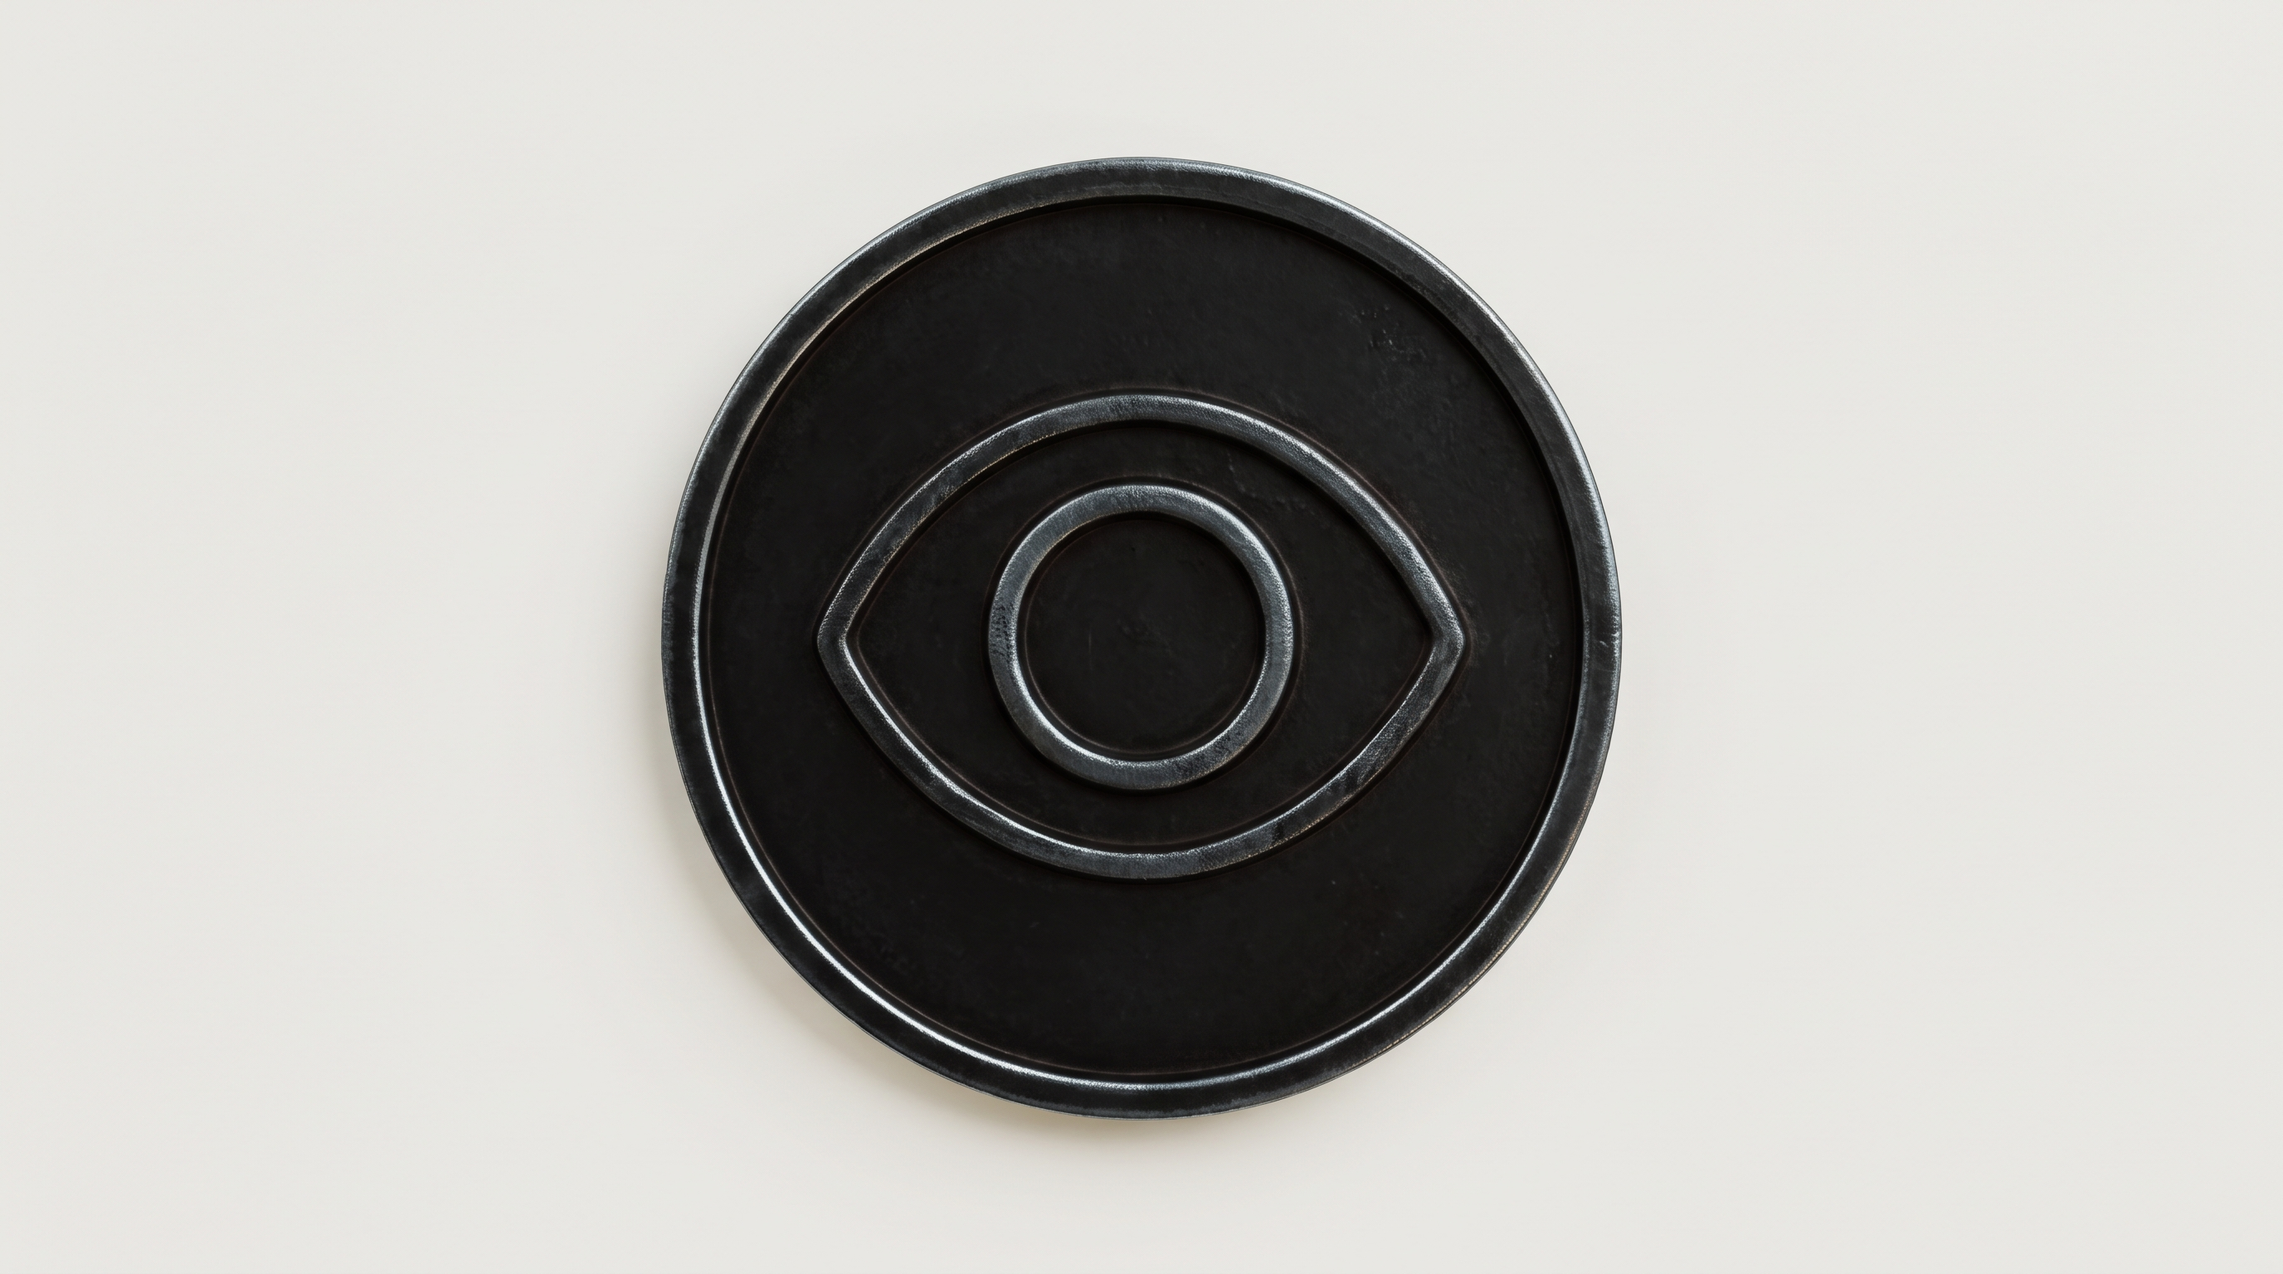
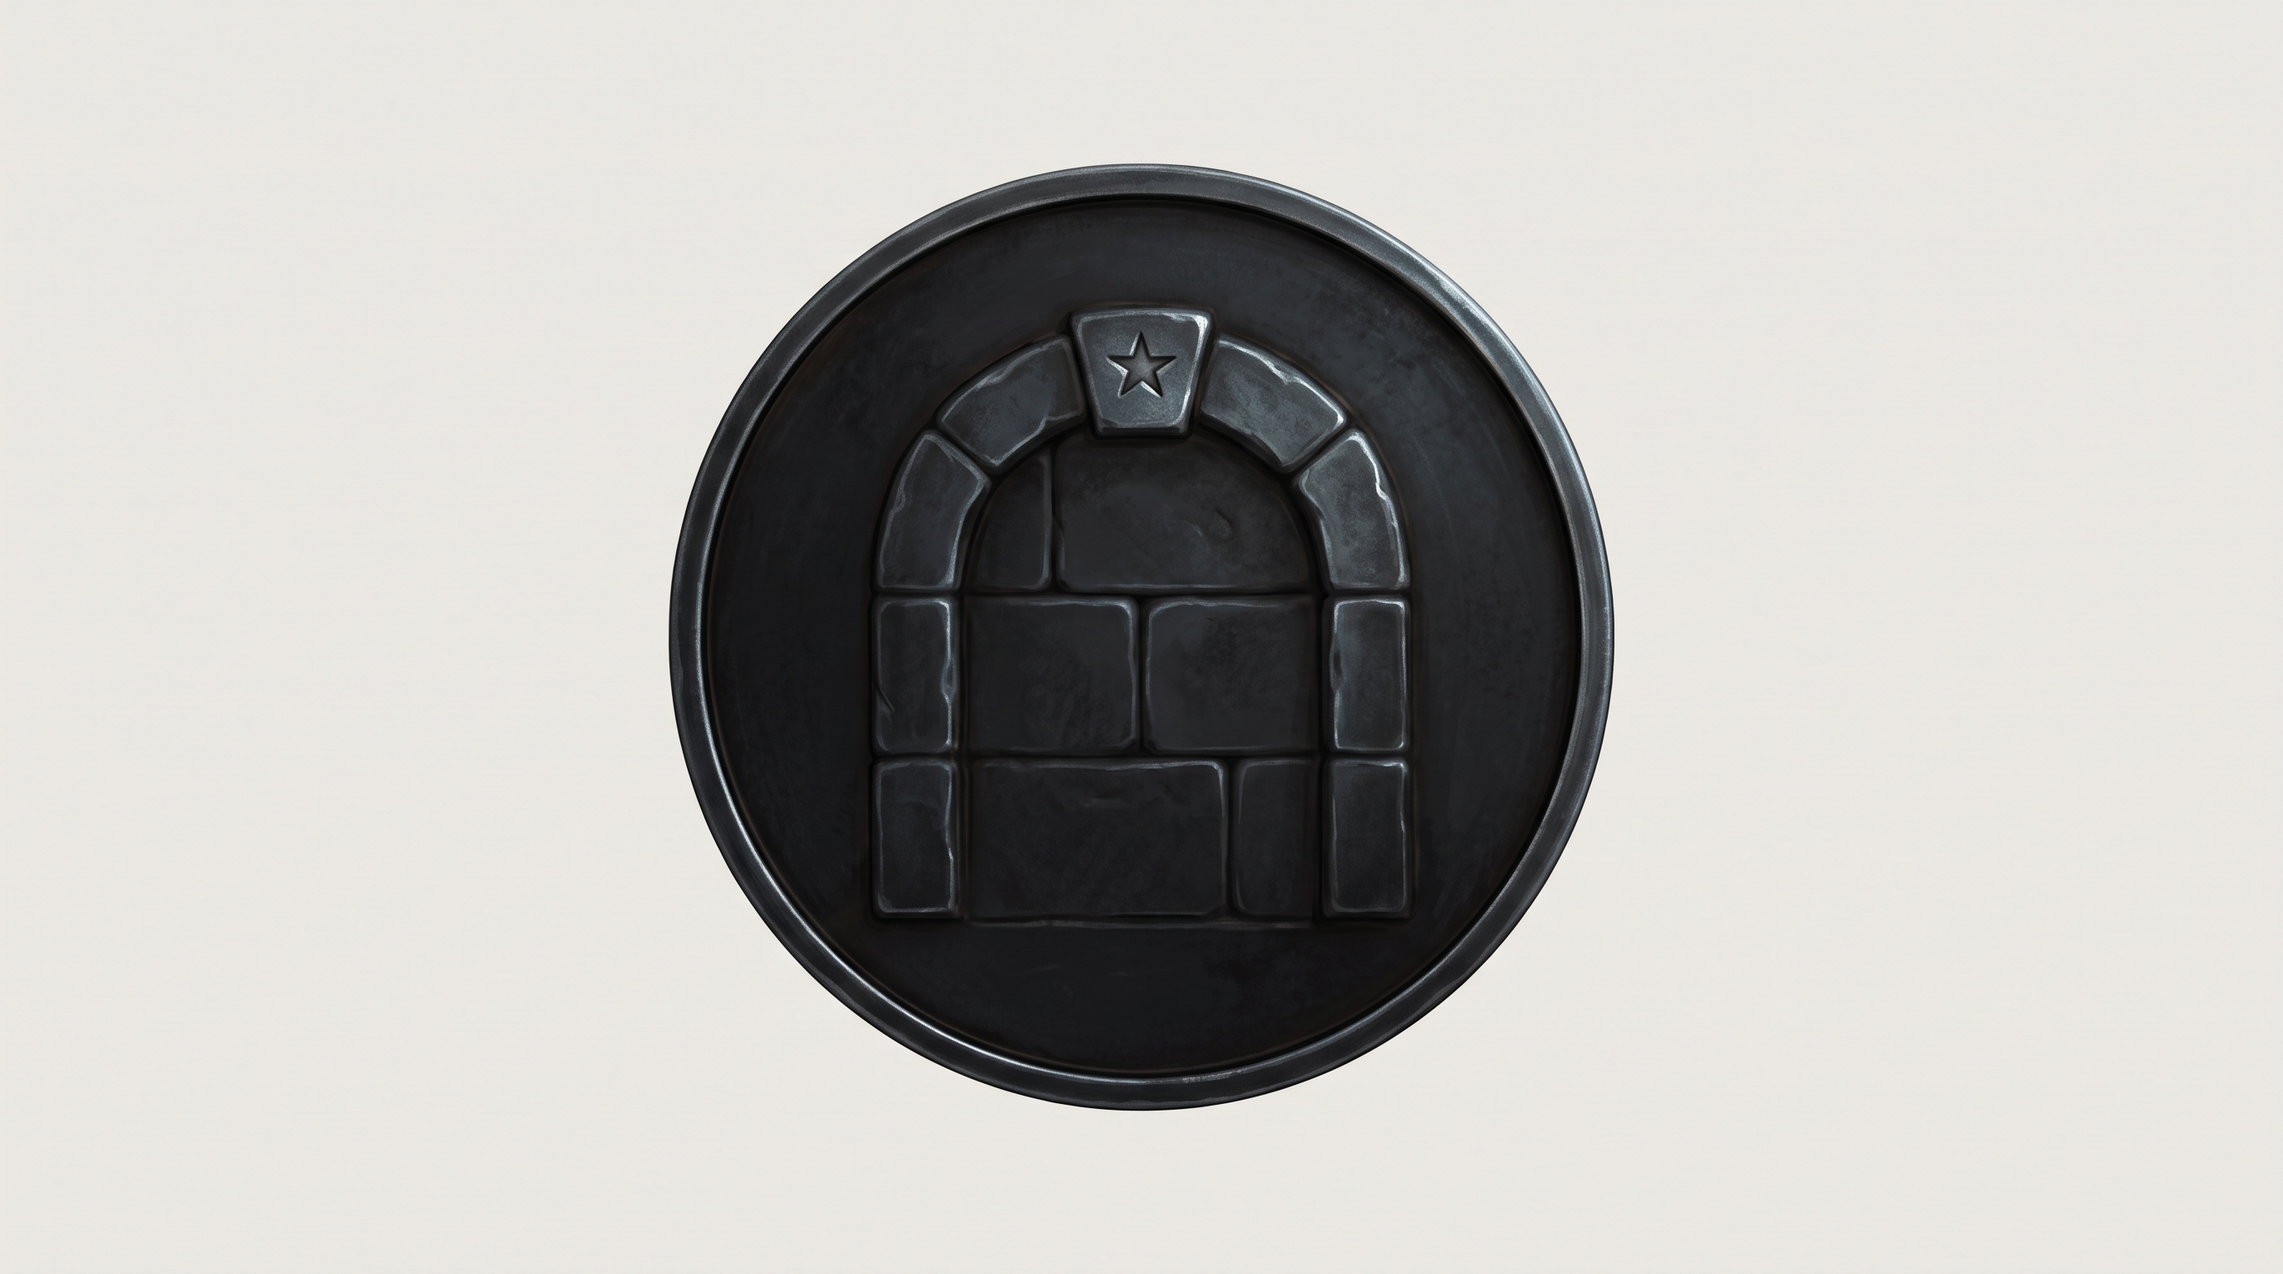
Retro Epico, nuova pedina Piano (arco murato), print and play Epico/spell/pedine e tabellone con il retro vero

Changed region(s): [[0.25, 0.125, 0.7188, 0.9062]]

diff --git a/cardgen/print-epico.js b/cardgen/print-epico.js
@@ -1,0 +1,130 @@
+// Print-and-play del mazzo Epico, delle due spell nuove e delle pedine Piano.
+//   Foglio 1 (epico_carte_fronte/retro.pdf): le 8 carte Epico, 3x3 (Poker 63,5x88mm), il retro e' unico.
+//   Foglio 2 (epico_spell_pedine_fronte/retro.pdf): Via murata e Sentiero battuto (ognuna col retro della sua scuola) +
+//   48 pedine Piano da 15mm (stessa immagine su entrambi i lati: il retro e' specchiato come le carte).
+// Fronte/retro si stampano sul lato lungo, a dimensione reale (100%). Righello di calibrazione di 40mm in fondo al foglio 2.
+//
+// Prima: node render-pedine.js piano   (produce cards_final/pedine/pedina_piano.png)
+// Uso:   node print-epico.js
+const fs = require('fs');
+const path = require('path');
+const { pathToFileURL } = require('url');
+const { chromium } = require('playwright');
+const { convertAll } = require('./png-to-jpg-cache.js');
+
+const CARDS_DIR = path.join(__dirname, '..', 'assets', 'cards');
+const RETRO_DIR = path.join(__dirname, '..', 'cards_final', 'retro');
+const JPG_CACHE_DIR = path.join(__dirname, '..', 'cards_final', 'print', '_jpgcache');
+const OUT_DIR = path.join(__dirname, '..', 'cards_final', 'print');
+const COIN_PNG = path.join(__dirname, '..', 'cards_final', 'pedine', 'pedina_piano.png');
+const PAGE_W = 210, PAGE_H = 297, MARGIN = 5;
+const CW = 63.5, CH = 88;
+const COIN = 15, COIN_GAP = 5;
+
+const EPICO = ['ep_custode', 'ep_altare', 'ep_mappastellare', 'ep_eco', 'ep_patto', 'ep_fenditura', 'ep_banchetto', 'ep_lascito']
+  .map(id => ({ id, back: 'retro_incontro_epico' }));
+const SPELLS = [
+  { id: 'sp_viamurata', back: 'retro_spell_divinazione' },
+  { id: 'sp_sentierobattuto', back: 'retro_spell_essenza' },
+];
+
+const COLS = Math.floor((PAGE_W - 2 * MARGIN) / CW);                // 3
+const ROWS = Math.floor((PAGE_H - 2 * MARGIN) / CH);                // 3
+const GX = (PAGE_W - COLS * CW) / 2, GY = (PAGE_H - ROWS * CH) / 2;
+
+const jpg = id => pathToFileURL(path.join(JPG_CACHE_DIR, id + '.jpg')).href;
+const mirrorX = (x, w) => PAGE_W - x - w;
+
+function cardCell(x, y, src) {
+  return `<div class="cell" style="left:${x}mm; top:${y}mm; width:${CW}mm; height:${CH}mm;"><img src="${src}">
+    <i class="crop tl"></i><i class="crop tr"></i><i class="crop bl"></i><i class="crop br"></i></div>`;
+}
+function coinCell(x, y) {
+  return `<div class="coin" style="left:${x}mm; top:${y}mm; width:${COIN}mm; height:${COIN}mm;"><img src="${pathToFileURL(COIN_PNG).href}"></div>`;
+}
+
+// Foglio 1: 8 carte Epico nei primi 8 posti della griglia 3x3
+function sheet1(mirror) {
+  const cells = EPICO.map((it, i) => {
+    const row = Math.floor(i / COLS), col = i % COLS;
+    const drawCol = mirror ? COLS - 1 - col : col;
+    return cardCell(GX + drawCol * CW, GY + row * CH, jpg(mirror ? it.back : it.id));
+  });
+  return cells.join('\n');
+}
+
+// Foglio 2: 2 spell + blocco di 12 pedine nei tre posti della prima fila, poi 4 file da 9 pedine (36): 48 in tutto
+const COIN_COUNT = 12 + 36;
+function sheet2(mirror) {
+  const out = [];
+  SPELLS.forEach((it, i) => {
+    const drawCol = mirror ? COLS - 1 - i : i;
+    out.push(cardCell(GX + drawCol * CW, GY, jpg(mirror ? it.back : it.id)));
+  });
+  // blocco 3x4 nel terzo posto (63,5x88): 3 colonne x 4 righe, passo 20mm, centrato nel posto
+  const blockW = 3 * COIN + 2 * COIN_GAP, blockH = 4 * COIN + 3 * COIN_GAP;
+  const slotCol = mirror ? 0 : COLS - 1;
+  const bx = GX + slotCol * CW + (CW - blockW) / 2, by = GY + (CH - blockH) / 2;
+  for (let r = 0; r < 4; r++) for (let c = 0; c < 3; c++) {
+    const x = bx + c * (COIN + COIN_GAP);
+    out.push(coinCell(mirror ? mirrorX(mirrorX(x, COIN), COIN) : x, by + r * (COIN + COIN_GAP)));
+  }
+  // 4 file da 9 sotto le carte
+  const rowW = 9 * COIN + 8 * COIN_GAP, x0 = (PAGE_W - rowW) / 2, y0 = GY + CH + 8;
+  for (let r = 0; r < 4; r++) for (let c = 0; c < 9; c++) {
+    const x = x0 + c * (COIN + COIN_GAP);
+    out.push(coinCell(mirror ? mirrorX(x, COIN) : x, y0 + r * (COIN + COIN_GAP)));
+  }
+  // righello 40mm
+  const rx = (PAGE_W - 40) / 2, ry = PAGE_H - 22;
+  out.push(`<div class="ruler" style="left:${rx}mm; top:${ry}mm;"><div class="bar"></div>${[0, 1, 2, 3, 4].map(m => `<i class="tick" style="left:${m * 10 - .15}mm;"></i>`).join('')}
+    <div class="lab">Pedine Piano 15mm (${COIN_COUNT}) + spell nuove — ${mirror ? 'retro' : 'fronte'} · righello: deve misurare 40mm, stampa al 100%</div></div>`);
+  return out.join('\n');
+}
+
+function html(body) {
+  return `<!doctype html><html><head><meta charset="utf-8"><style>
+    *{box-sizing:border-box;margin:0;padding:0;}
+    body{ background:#fff; }
+    .sheet{ position:relative; width:${PAGE_W}mm; height:${PAGE_H}mm; overflow:hidden; }
+    .cell{ position:absolute; } .cell img{ display:block; width:100%; height:100%; }
+    .coin{ position:absolute; border-radius:50%; box-shadow:0 0 0 .2mm #999; } .coin img{ display:block; width:100%; height:100%; border-radius:50%; }
+    .crop{ position:absolute; display:block; }
+    .crop.tl{ left:-3.5mm; top:0; width:3mm; height:.25mm; background:#999; } .crop.tl::after{ content:''; position:absolute; left:0; top:-3.5mm; width:.25mm; height:3mm; background:#999; }
+    .crop.tr{ right:-3.5mm; top:0; width:3mm; height:.25mm; background:#999; } .crop.tr::after{ content:''; position:absolute; right:0; top:-3.5mm; width:.25mm; height:3mm; background:#999; }
+    .crop.bl{ left:-3.5mm; bottom:0; width:3mm; height:.25mm; background:#999; } .crop.bl::after{ content:''; position:absolute; left:0; bottom:-3.5mm; width:.25mm; height:3mm; background:#999; }
+    .crop.br{ right:-3.5mm; bottom:0; width:3mm; height:.25mm; background:#999; } .crop.br::after{ content:''; position:absolute; right:0; bottom:-3.5mm; width:.25mm; height:3mm; background:#999; }
+    .ruler{ position:absolute; width:40mm; } .ruler .bar{ width:40mm; height:.3mm; background:#000; }
+    .ruler .tick{ position:absolute; top:-1mm; width:.3mm; height:2.3mm; background:#000; }
+    .ruler .lab{ margin-top:1.5mm; width:150mm; margin-left:-55mm; text-align:center; font-family:sans-serif; font-size:2.6mm; line-height:1.35; color:#333; }
+  </style></head><body><div class="sheet">${body}</div></body></html>`;
+}
+
+async function main() {
+  if (!fs.existsSync(COIN_PNG)) throw new Error('manca ' + COIN_PNG + ': esegui prima node render-pedine.js piano');
+  fs.mkdirSync(OUT_DIR, { recursive: true });
+  const pairs = []; const seen = new Set();
+  for (const it of [...EPICO, ...SPELLS]) {
+    if (!seen.has(it.id)) { seen.add(it.id); pairs.push({ id: it.id, srcDir: CARDS_DIR, outDir: JPG_CACHE_DIR }); }
+    if (!seen.has(it.back)) { seen.add(it.back); pairs.push({ id: it.back, srcDir: RETRO_DIR, outDir: JPG_CACHE_DIR }); }
+  }
+  await convertAll(pairs);
+  const browser = await chromium.launch({ executablePath: process.env.PW_CHROMIUM || '/opt/pw-browsers/chromium' });
+  const jobs = [
+    ['epico_carte_fronte', sheet1(false)], ['epico_carte_retro', sheet1(true)],
+    ['epico_spell_pedine_fronte', sheet2(false)], ['epico_spell_pedine_retro', sheet2(true)],
+  ];
+  for (const [name, body] of jobs) {
+    const tmp = path.join(__dirname, '_print-epico-' + name + '.html');
+    fs.writeFileSync(tmp, html(body));
+    const page = await browser.newPage();
+    await page.goto('file://' + tmp + '?t=' + Date.now());
+    await page.waitForTimeout(500);
+    await page.pdf({ path: path.join(OUT_DIR, name + '.pdf'), printBackground: true, width: PAGE_W + 'mm', height: PAGE_H + 'mm', margin: { top: 0, right: 0, bottom: 0, left: 0 } });
+    await page.close();
+    fs.unlinkSync(tmp);
+  }
+  await browser.close();
+  console.log('Fatto: epico_carte_fronte/retro.pdf (8 carte Epico) + epico_spell_pedine_fronte/retro.pdf (2 spell + ' + COIN_COUNT + ' pedine) in ' + OUT_DIR);
+}
+main().catch(e => { console.error(e); process.exit(1); });

diff --git a/cardgen/render-tabellone-a2.js b/cardgen/render-tabellone-a2.js
@@ -67,6 +67,7 @@ const DECKS = [
   { n: 'ETEREI', col: FAM.eterei.c, x: zx(3), y: ROW1, retro: ['retro_incontro_eterei'] },
   { n: 'ENTROPIA', col: FAM.entropia.c, x: zx(4), y: ROW1, retro: ['retro_incontro_entropia'] },
   { n: 'NON-MORTI', col: FAM.nonmorti.c, x: zx(3), y: ROW2, retro: ['retro_incontro_nonmorti'] },
+  { n: 'MAZZO EPICO', col: '#e7c988', x: zx(2), y: ROW2, retro: ['retro_incontro_epico'] },
   { n: 'DEMONIACO', col: FAM.demoniaco.c, x: zx(4), y: ROW2, retro: ['retro_incontro_demoni'] },
   // il Mazzo Piani da solo a sinistra, separato dai mazzi Incontro (Tarocco, centrato verticalmente nella fila)
   { n: 'MAZZO PIANI', col: '#c9a15a', x: 28, y: ROW2 + (P.h - T.h) / 2, w: T.w, h: T.h, retro: ['retro_piani'] },
@@ -79,8 +80,6 @@ const ACTIVE = [
   { n: 'PIANO CORRENTE', sub: 'Il piano in corso:<br>effetto subito.', col: '#c9a15a', x: 76, y: Y0 + 31, ...T },
   { n: 'INCONTRO ATTIVO', sub: 'La carta del turno.<br>Ogni 5 piani (come il livello):<br>mazzo Generico.<br>Famiglia completata o nuovo<br>giro: mazzo Epico (vince).', col: '#aeb4c0', x: 210, y: Y0 + 22, ...P },
 ];
-// Mazzo Epico (Poker): in alto, al centro sotto il Generico. Finche' non c'e' il retro e' una cornice con testo.
-const EPICO = { n: 'MAZZO EPICO', sub: "Famiglia completata<br>o nuovo giro della<br>scaletta: l'Incontro<br>del turno è Epico.", col: '#e7c988', x: zx(2), y: ROW2, ...P };
 // cluster: origine (x,y) = angolo in alto a sinistra dell'area, larghezza 76; punti relativi all'angolo
 const CW = 76, CY = Y0 + 110;
 const G3 = [12.5, 38, 63.5];
@@ -166,7 +165,7 @@ function ladderHtml() {
 function boardHtml() {
   const bgs = `<img class="bg" style="top:0; height:${BH}mm" src="${pathToFileURL(BG_UNICO).href}">`;
   const wrap = `<div style="position:absolute; left:0; top:0; width:${BW}mm; height:${BH}mm; transform-origin:${SEAM_X}mm ${SEAM_Y}mm; transform:scale(${BG_SCALE});">${bgs}</div>`;
-  return wrap + DECKS.map(deckHtml).join('') + [...ACTIVE, EPICO].map(activeHtml).join('') + starHtml() + ladderHtml();
+  return wrap + DECKS.map(deckHtml).join('') + ACTIVE.map(activeHtml).join('') + starHtml() + ladderHtml();
 }
 
 function sheetHtml(col, row, label) {
@@ -194,7 +193,7 @@ function docHtml(sheets) {
 function misure() {
   let ok = true;
   console.log('Zone-carta (mm sul tabellone montato 406x580):');
-  const zones = [...DECKS.map(d => ({ n: d.n, x: d.x, y: d.y, w: d.w, h: d.h })), ...[...ACTIVE, EPICO].map(a => ({ n: a.n, x: a.x, y: a.y, w: a.w, h: a.h }))];
+  const zones = [...DECKS.map(d => ({ n: d.n, x: d.x, y: d.y, w: d.w, h: d.h })), ...ACTIVE.map(a => ({ n: a.n, x: a.x, y: a.y, w: a.w, h: a.h }))];
   for (const z of zones) {
     const x1 = z.x + z.w, y1 = z.y + z.h;
     const crossY = z.y < SEAM_Y && y1 > SEAM_Y, crossX = z.x < 210 && x1 > 196;     // 196..210 = fascia di sovrapposizione

diff --git a/cardgen/render-pedine.js b/cardgen/render-pedine.js
@@ -57,13 +57,13 @@ const TOKENS = {
     backAccent: '#8b5fbf', // viola, coerente col vortice del fronte
     backFontSize: 110,
   },
-  // Pedina Piano (mappa stellare): una sola moneta, stessa icona (occhio) sui due lati, 15mm. Si mette sul nodo di un piano
+  // Pedina Piano (mappa stellare): una sola moneta, stessa icona (murata con la stella) sui due lati, 15mm. Si mette sul nodo di un piano
   // visitato o murato. Centro e diametro misurati sui pixel della moneta (nera su fondo chiaro).
   piano: {
     src: path.join(UI_DIR, 'pedina_piano.jpg'),
     srcW: 2752, srcH: 1536,
-    center: [1376, 769],
-    diameterPx: 1158,
+    center: [1375, 768],
+    diameterPx: 1141,
     diameterMm: 15,
     renderPx: 700,
   },
@@ -371,8 +371,8 @@ async function mainAbilita() {
   console.log(`Fatto: pedine_fronte_retro.pdf (2 pagine: ${MIX.abilita} abilità, ${MIX.risorsa} risorse, ${MIX.reroll} reroll, ${MIX.mod} segnalini, carta Scala) in ${PRINT_DIR}`);
 }
 
-// Pedine Piano: 40 monete da 15mm (36 piani + 4 di scorta), stessa immagine sui due lati: due pagine (fronte, retro specchiato).
-const PIANO_COUNT = 40;
+// Pedine Piano: 45 monete da 15mm (36 piani + 9 di scorta), stessa immagine sui due lati: due pagine (fronte, retro specchiato).
+const PIANO_COUNT = 45;
 async function mainPiano() {
   fs.mkdirSync(OUT_DIR, { recursive: true });
   fs.mkdirSync(PRINT_DIR, { recursive: true });

diff --git a/cardgen/render-retro.js b/cardgen/render-retro.js
@@ -29,6 +29,7 @@ const BACKS = [
   { id: 'retro_incontro_eterei', label: 'Eterei', accent: FAMILY_ACCENT.eterei, shape: 'portrait', labelPos: 'circle' },
   { id: 'retro_incontro_generico', label: 'Generico', accent: FAMILY_ACCENT.generico, shape: 'portrait', labelPos: 'circle' },
   { id: 'retro_incontro_nonmorti', label: 'Non-morti', accent: FAMILY_ACCENT.nonmorti, shape: 'portrait', labelPos: 'circle', fontSize: 34 },
+  { id: 'retro_incontro_epico', label: 'Epico', accent: FAMILY_ACCENT.epico, shape: 'portrait', labelPos: 'circle' },
 ];
 
 async function main() {

diff --git a/cardgen/CARTE_DA_RISTAMPARE.md b/cardgen/CARTE_DA_RISTAMPARE.md
@@ -18,7 +18,7 @@ sé stesso, vedi il bug del 24/09 sotto). Il risultato va poi copiato su `assets
 
 | Data | Carta | Tipo | Cosa è cambiato |
 |---|---|---|---|
-| 2026-10-15 | NUOVE: mazzo Epico (8 carte `ep_custode`, `ep_altare`, `ep_mappastellare`, `ep_eco`, `ep_patto`, `ep_fenditura`, `ep_banchetto`, `ep_lascito`) e 2 spell (`sp_viamurata` Divinazione, `sp_sentierobattuto` Essenza) | Nuove carte (mai stampate) | Illustrazioni dell'utente in `assets/cards_raw/`, composte in `assets/cards/`; nel gioco web sono già attive (mappa dei piani con pedine, famiglia completata/nuovo giro = Epico). Pedina Piano pronta (moneta da 15mm con l'occhio, stessa immagine sui due lati: `node render-pedine.js piano` -> `pedine_piano_fronte.pdf` / `pedine_piano_retro.pdf`, 40 pezzi). Manca ancora il retro del mazzo Epico (`retro_incontro_epico`). |
+| 2026-10-15 | NUOVE: mazzo Epico (8 carte `ep_custode`, `ep_altare`, `ep_mappastellare`, `ep_eco`, `ep_patto`, `ep_fenditura`, `ep_banchetto`, `ep_lascito`) e 2 spell (`sp_viamurata` Divinazione, `sp_sentierobattuto` Essenza) | Nuove carte (mai stampate) | Illustrazioni dell'utente in `assets/cards_raw/`, composte in `assets/cards/`; nel gioco web sono già attive (mappa dei piani con pedine, famiglia completata/nuovo giro = Epico). Retro del mazzo Epico fatto (`retro_incontro_epico`, arte utente in `assets/cards_raw/`, composto con `node render-retro.js`). Pedina Piano: moneta con l'arco murato e la stella (arte utente `assets/ui/pedina_piano.jpg`, la prima con l'occhio e' in `assets/ui/archivio/`), 15mm, stessa immagine sui due lati. Print and play: `node render-pedine.js piano` poi `node print-epico.js` -> `epico_carte_fronte/retro.pdf` (8 carte Epico) e `epico_spell_pedine_fronte/retro.pdf` (2 spell + 48 pedine). Tabellone rigenerato con il retro Epico vero. |
 | 2026-10-09 | Spettro (Incontro Non-morti, `nm_spettro`) | Testo | Era la carta sbagliata da correggere (non lo Spettro del Tempo): diceva "danno passante a Intelletto, non a Punti Vita". Ora, come tutti i passanti: "danno passante: oltre ai PV, anche -1 temporaneo a Intelletto"; nel gioco il danno passante va ai PV e il -1 temporaneo a Intelletto solo a chi lo subisce. Rigenerata da `assets/cards_raw/` con `render-incontri.js` (mazzo `nonmorti`), copiata su `assets/cards/nm_spettro.png`. Lo Spettro del Tempo (`en_spettro`) era già giusto e non va ristampato. |
 | 2026-10-10 | Tabellone da tavolo (2 x A4 uniti, 406mm) | Nuovo componente | Sfondo vuoto dell'utente `assets/ui/tabellone_vuoto.jpg` (2464x1728); slot disegnati da `render-tabellone.js` A MISURA REALE: 2 Tarocco 120x70mm (Mazzo Piani, Piano attuale) e 10 Poker 63,5x88mm (Generico, Armonia, Non-morti, Entropia, Oggetti, Spell, Incontro, Eterei, Elementare, Demoniaco). Oggetti e Spell stanno al centro, a cavallo della giunzione. Giunzione: i fogli si ritagliano sul lato del taglio (sinistro: bordo bianco a destra di x=203; destro: bordo bianco a sinistra di x=7; sovrapposizione 14mm, tollera margini di stampa fino a 7mm; righello da 40mm in fondo a ogni foglio) e si accostano: tabellone montato 406mm, nessun disegno perso. Dorsi delle carte negli slot, promemoria Check/Turno, niente icone né conteggio carte. Misurato sul PDF a 200dpi: apertura cornice Poker 64,8x89,0mm, Tarocco 121,0x71,0mm. File: `tabellone_A4_sx.pdf`, `tabellone_A4_dx.pdf`. Immagini vecchie archiviate (`tabellone.jpg`, `tabellone_v3.jpg`, `tabellone_vecchio_*.jpg`). |
 | 2026-10-13 | Promemoria: Piano Terreno a lotti | Testo | Il promemoria (retro/fronte, riquadro Gruppo e vittoria) non dice piu' "a ogni salto una carta Piano Terreno": ora 5 carte in fondo al mazzo Piani al 5° salto, 5 al 10°, le restanti al 15°; La Via di Casa e' l'unica che torna nel mazzo; il mazzo Piani non si rimescola mai con gli scarti. Nel gioco: `addPianoTerrenoBatch`, `resolvePianoTerreno`, `refillMazzoPianiIfNeeded`. Da ristampare `promemoria.pdf`. |
